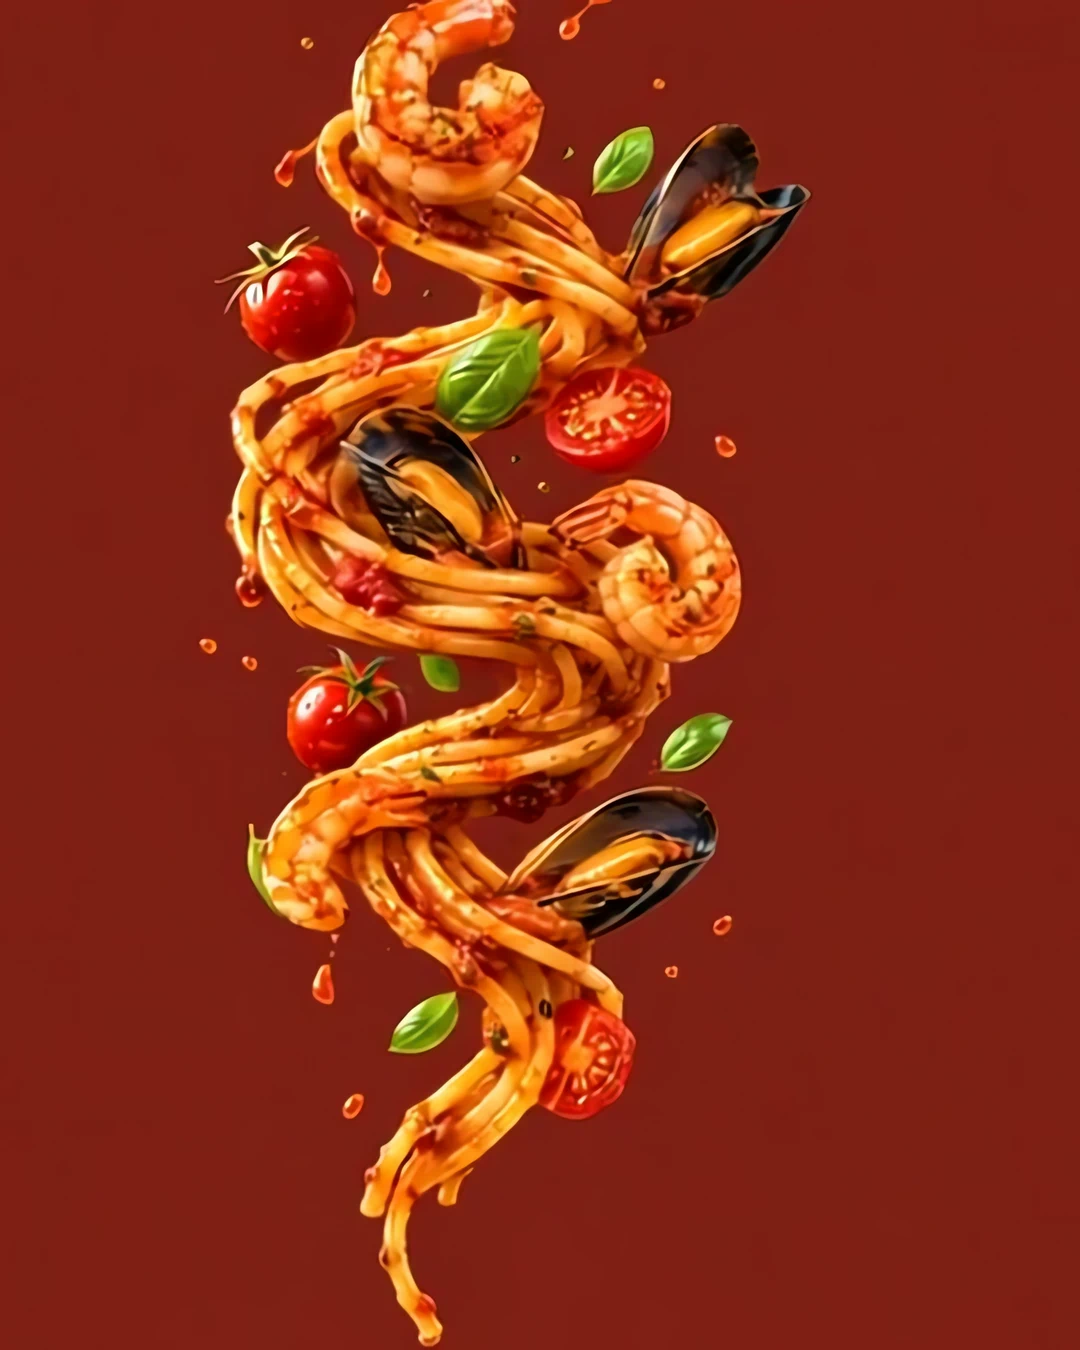
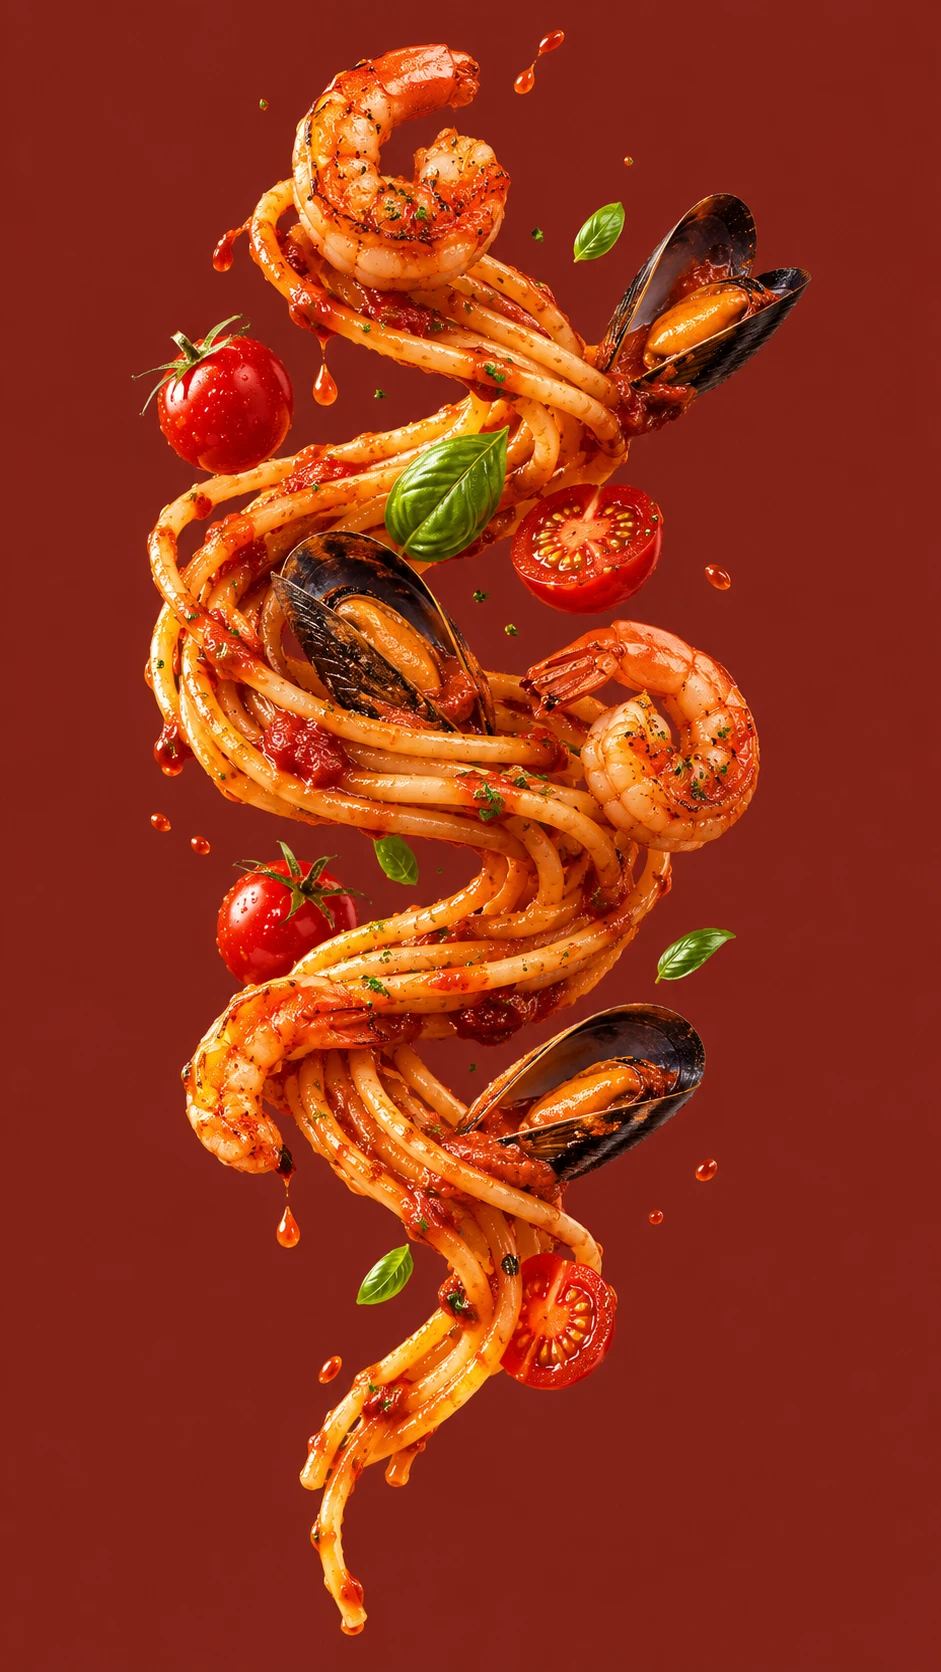
Story: use the provided spiral photo, shown whole
Copies the new 941x1672 spiral photo unchanged (served unoptimized). The frame now takes
the photo's own proportions instead of a 4:5 crop, and the parallax moves the whole frame
rather than the image inside it, so nothing is cut.

diff --git a/src/components/site/Story.tsx b/src/components/site/Story.tsx
@@ -53,12 +53,12 @@ export function Story() {
           scrollTrigger: { trigger: ".story__plate", start: "top 80%", once: true },
         });
 
-        // Parallax: the photo drifts slower than the page.
+        // Parallax: the whole photo frame drifts slower than the page (the image itself is never cropped).
         gsap.fromTo(
-          ".story__media img",
-          { yPercent: -8 },
+          ".story__media",
+          { y: 60 },
           {
-            yPercent: 8,
+            y: -60,
             ease: "none",
             scrollTrigger: { trigger: ".story__media", start: "top bottom", end: "bottom top", scrub: true },
           },
@@ -104,7 +104,8 @@ export function Story() {
               width={story.image.width}
               height={story.image.height}
               alt={story.image.alt}
-              sizes="(min-width: 1024px) 40vw, 90vw"
+              sizes="(min-width: 640px) 30rem, 100vw"
+              unoptimized
               style={{ objectPosition: story.image.focal }}
             />
           </div>

diff --git a/src/app/sections.css b/src/app/sections.css
@@ -132,19 +132,19 @@
   line-height: 1.4;
   color: color-mix(in oklab, var(--color-cozza) 82%, transparent);
 }
+/* The spiral photo is shown whole at its own 941x1672 proportions (no crop). */
 .story__media {
+  width: min(100%, 30rem);
+  margin-inline: auto;
   overflow: hidden;
   border-radius: 1.25rem;
-  aspect-ratio: 4 / 5;
   background: var(--color-rosso);
+  will-change: transform;
 }
 .story__media img {
+  display: block;
   width: 100%;
-  height: 116%;
-  margin-top: -8%;
-  max-width: none;
-  object-fit: cover;
-  will-change: transform;
+  height: auto;
 }
 .story__steps {
   list-style: none;

diff --git a/src/content/sections.ts b/src/content/sections.ts
@@ -36,8 +36,8 @@ export const story = {
   },
   image: {
     src: "/images/story-spiral.webp",
-    width: 1080,
-    height: 1350,
+    width: 941,
+    height: 1672,
     alt: "A spiral of spaghetti in tomato sauce twisting upward, with prawns, mussels, cherry tomatoes and basil, against a deep red background.",
     focal: "50% 50%",
   },
